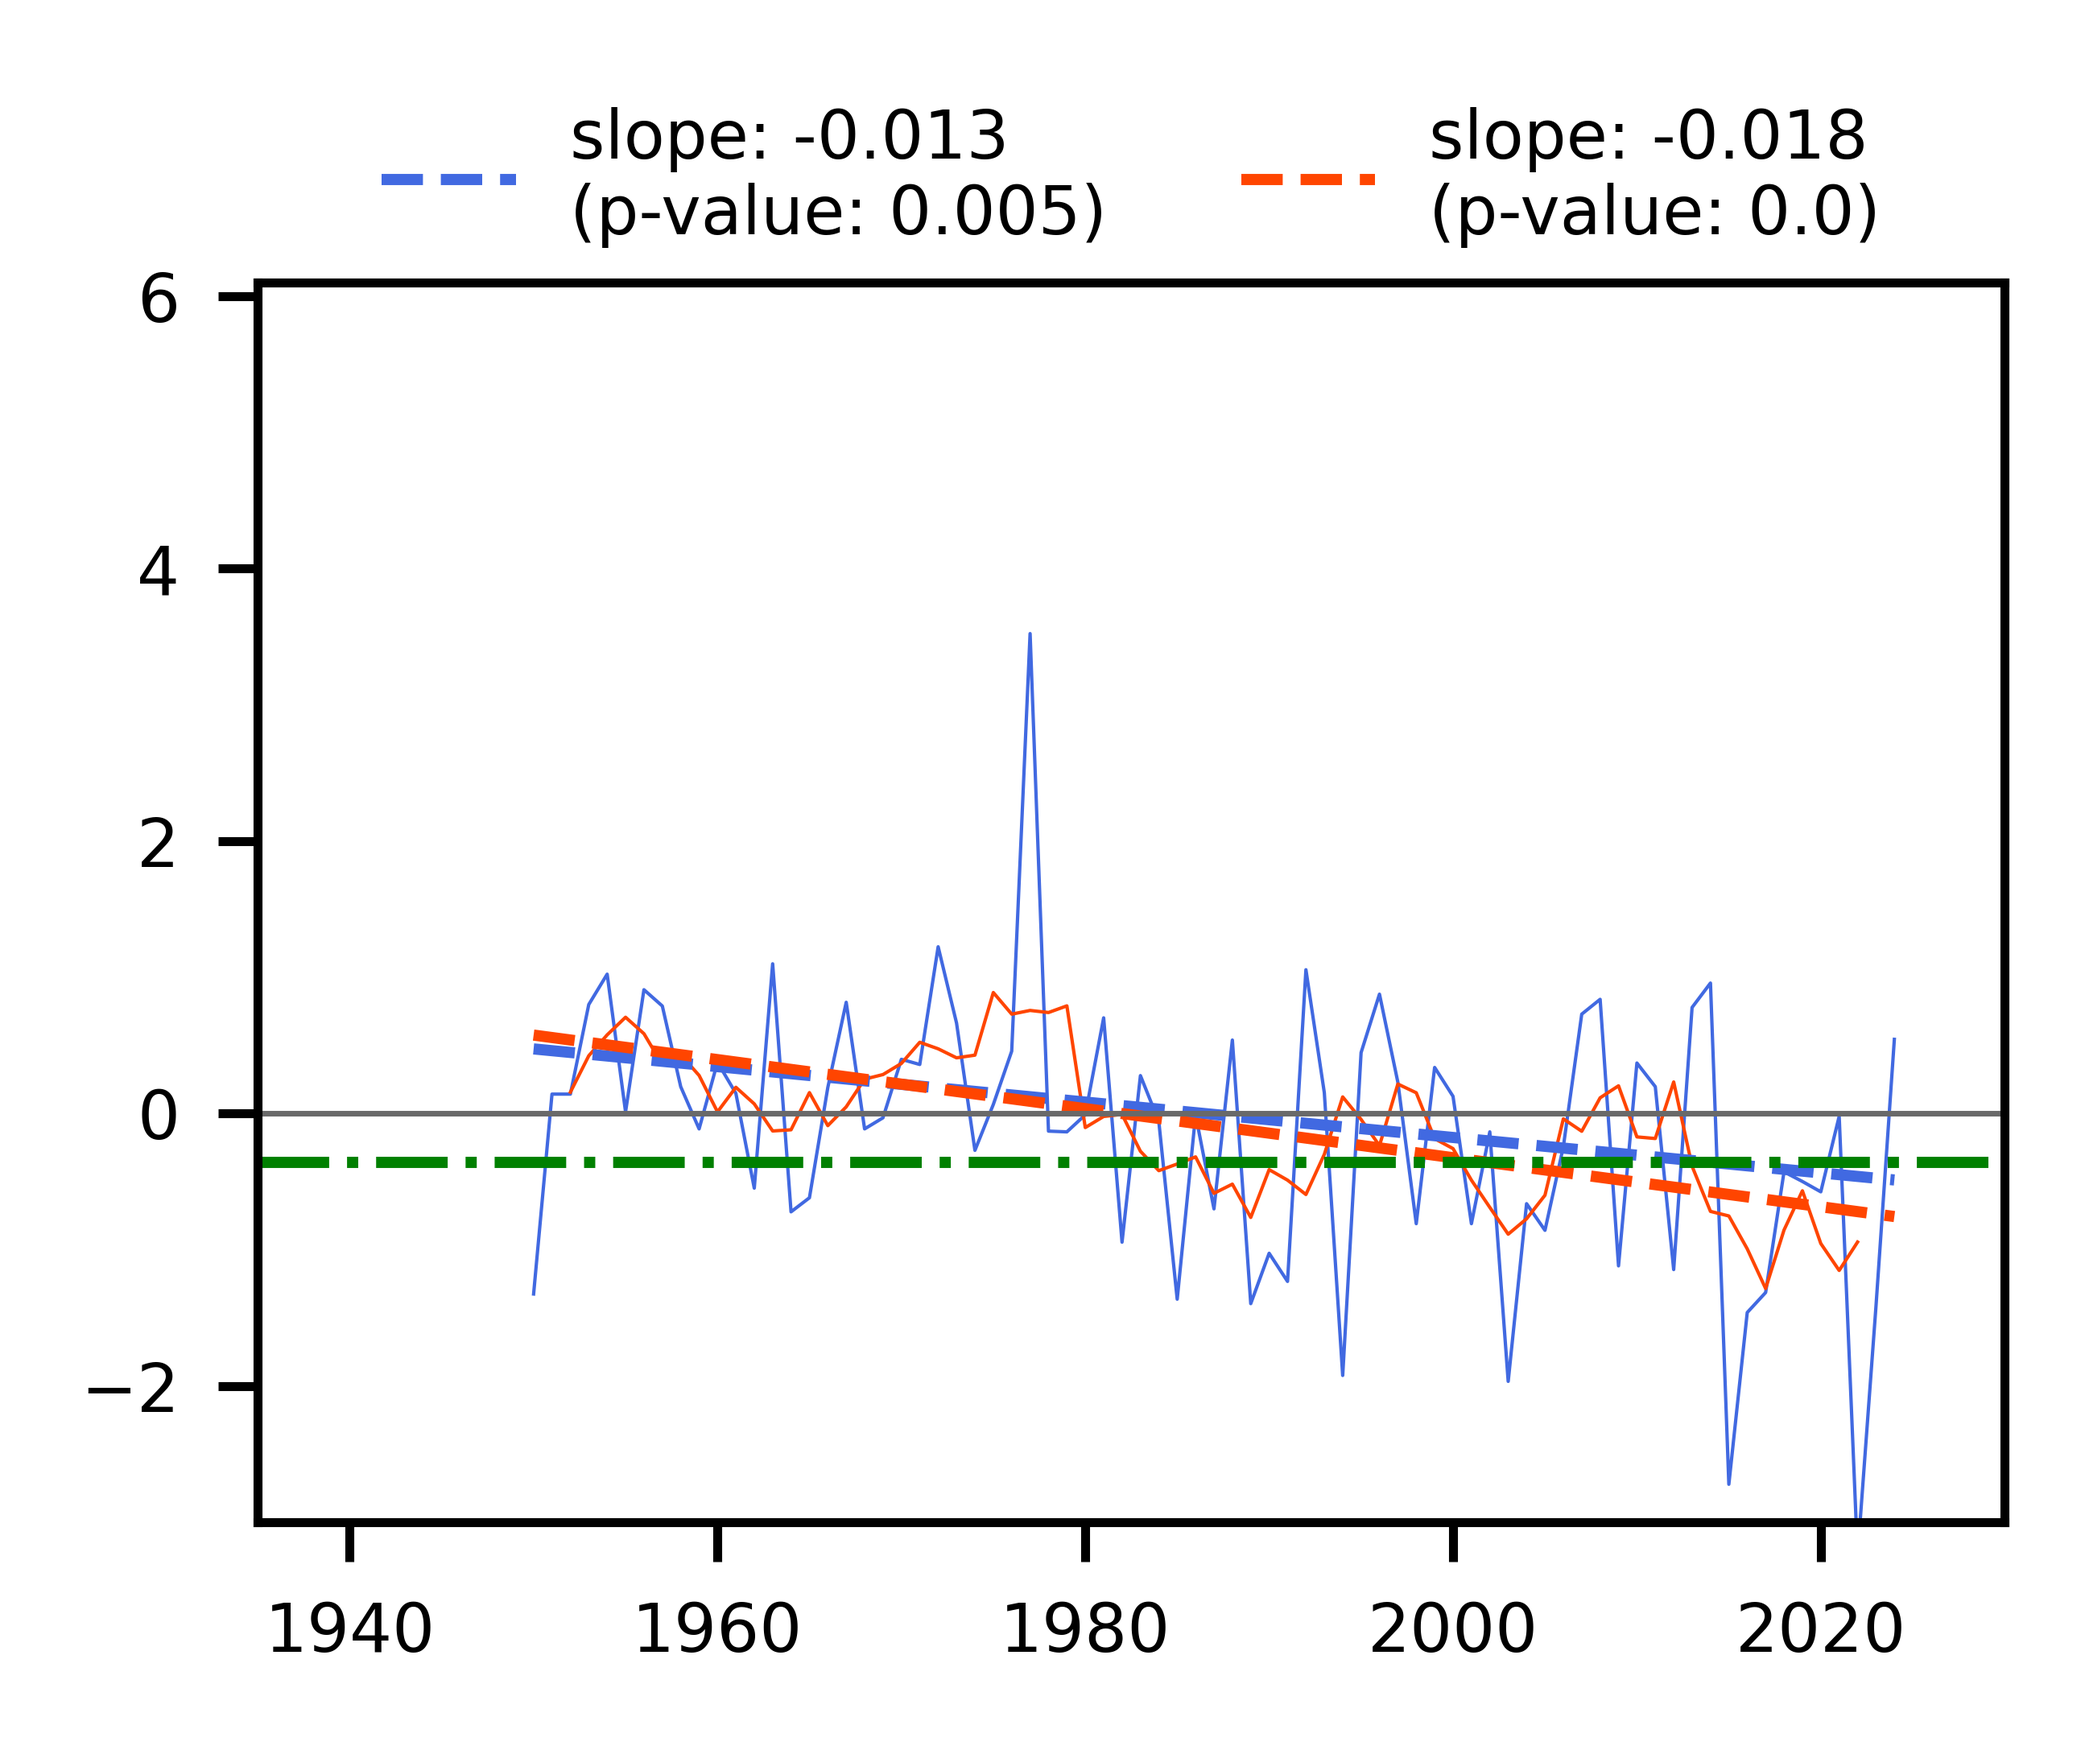
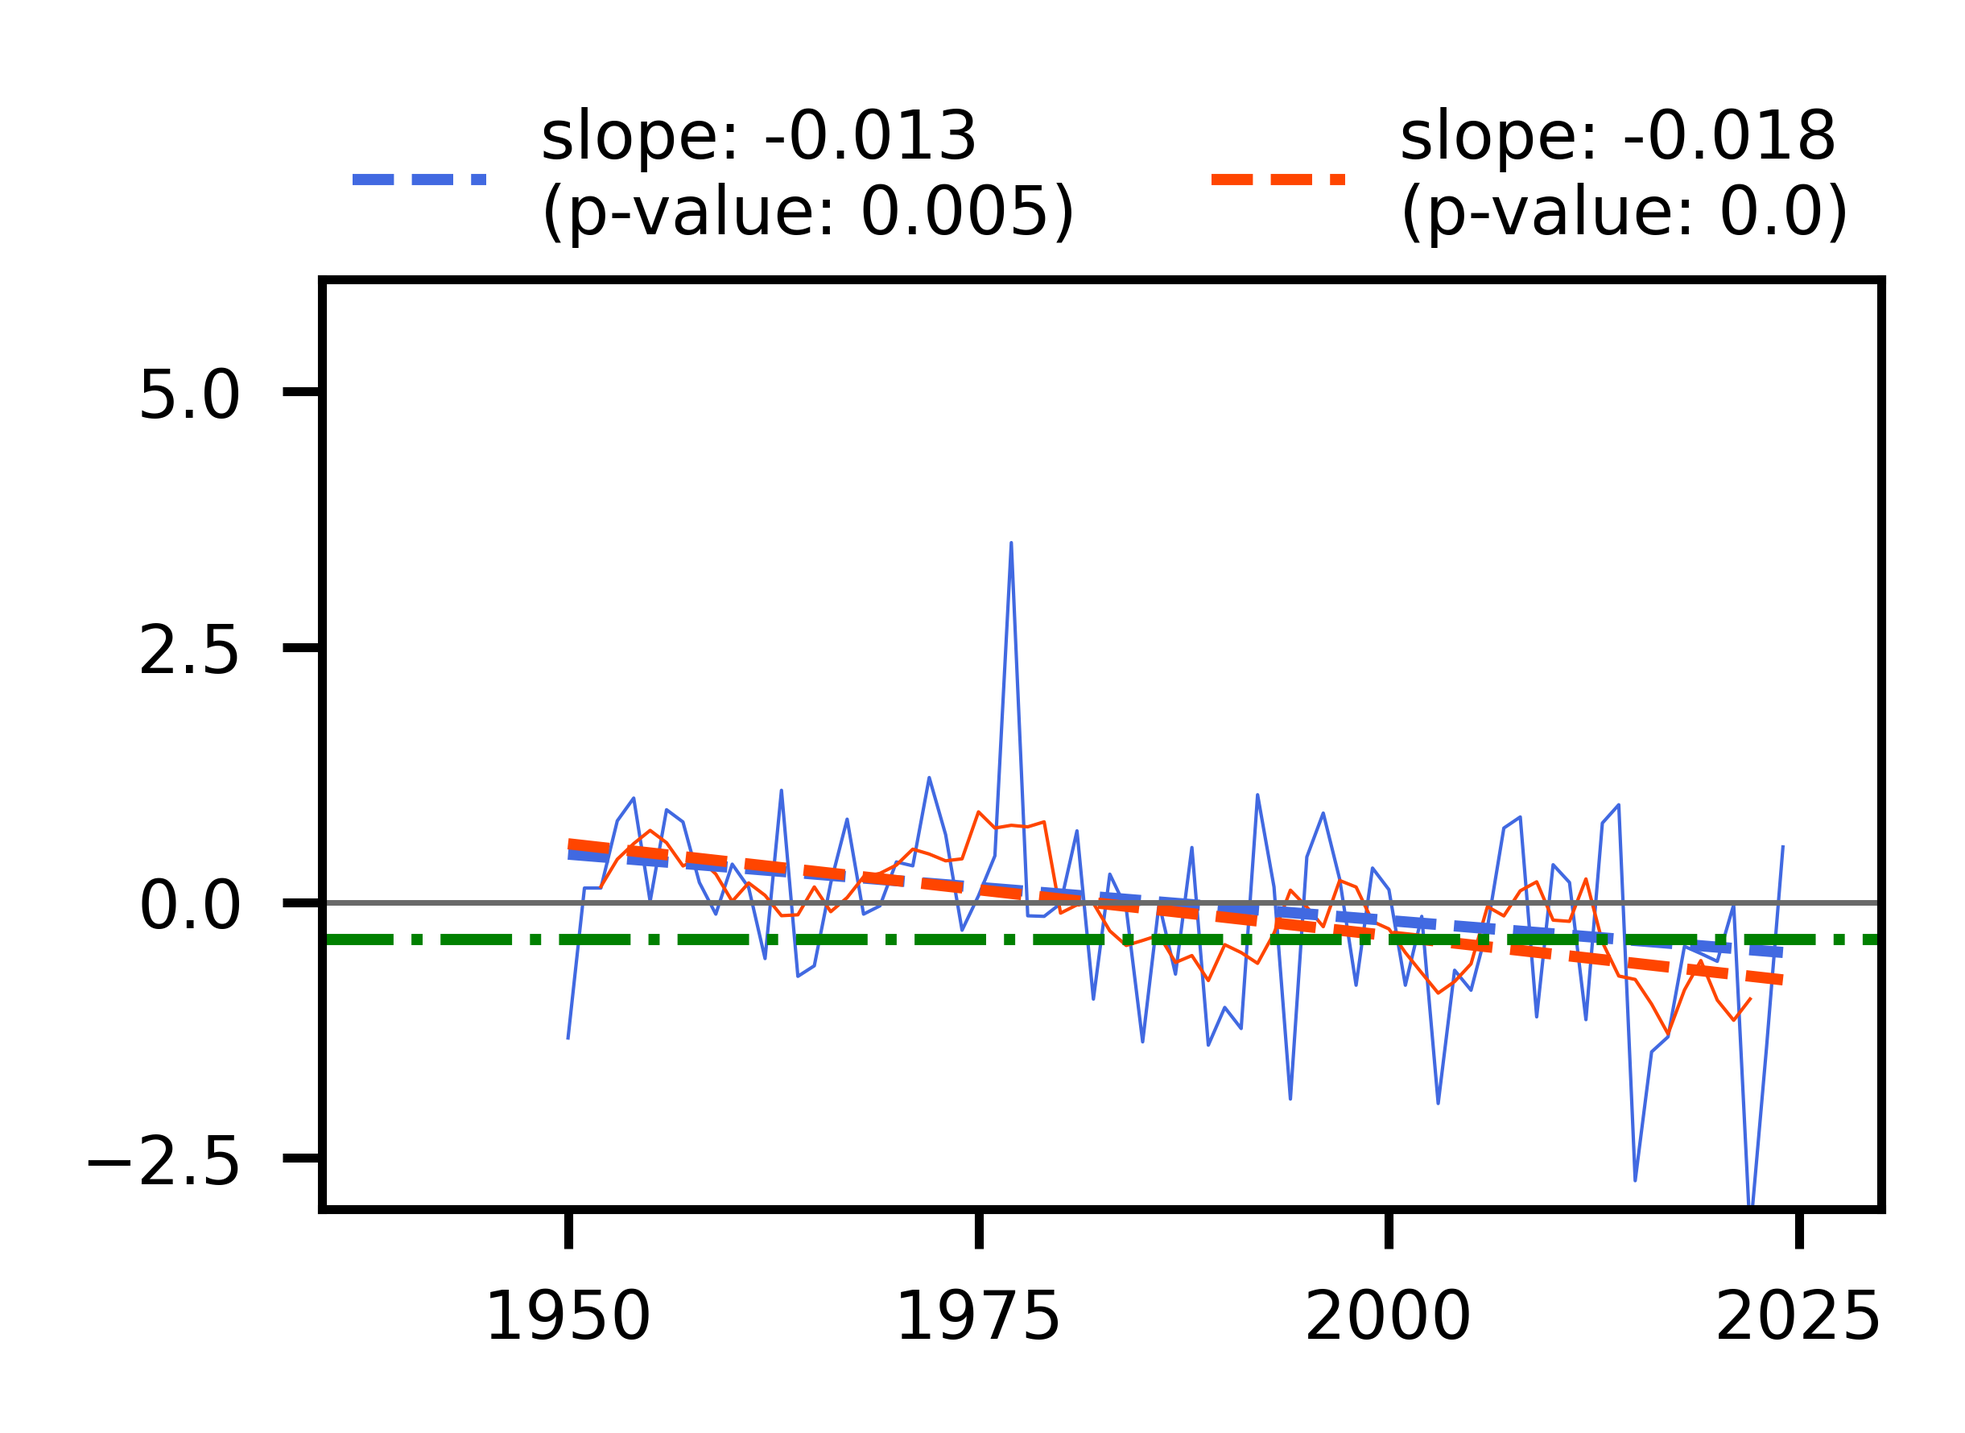
improved forecasts

Changed region(s): [[0.0623, 0.0618, 0.9652, 0.9579]]

diff --git a/scripts/processed/11_plot_trend_pt.py b/scripts/processed/11_plot_trend_pt.py
@@ -80,7 +80,7 @@ for season in season_list:
         label_rm = f"slope: {sen_slope}\n(p-value: {pvalue})"
 
         # Plotting the timeseries and the trend
-        plt.figure(figsize=(2.8, 2))
+        plt.figure(figsize=(2.5, 1.5))
         plt.plot(year_list, curv_av, lw=0.3, color = "royalblue")
         plt.plot(year_list, running_mean_centered, lw=0.3, color = "orangered")
         plt.plot(year_list, trend_vals, "--", lw=1, color = "royalblue", label = label_vals)
@@ -91,7 +91,7 @@ for season in season_list:
         plt.ylim([-3, 6.1])
         plt.xticks(fontsize=6)
         plt.yticks(fontsize=6)
-        plt.legend(loc="upper center", bbox_to_anchor=(0.5, 1.19), ncol=2, frameon=False, fontsize=6)
+        plt.legend(loc="upper center", bbox_to_anchor=(0.5, 1.25), ncol=2, frameon=False, fontsize=6)
         
         # Saving the curv climatology plot
         dir_out_temp = f"{dir_out}/{name_pt}/{year_s}_{year_f}"
